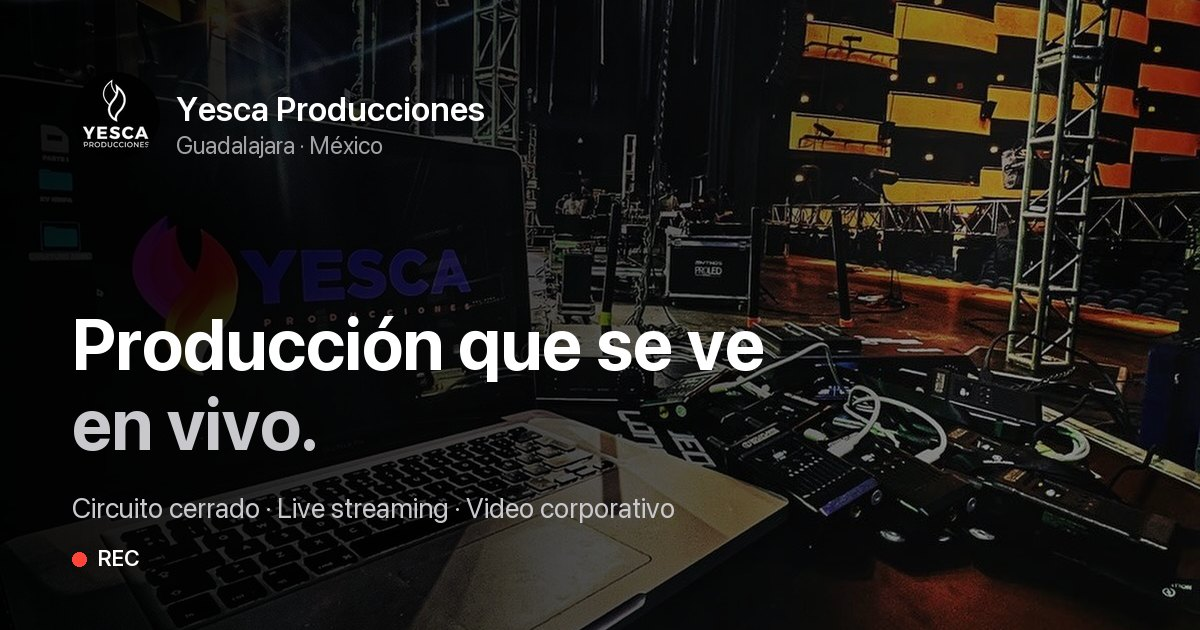
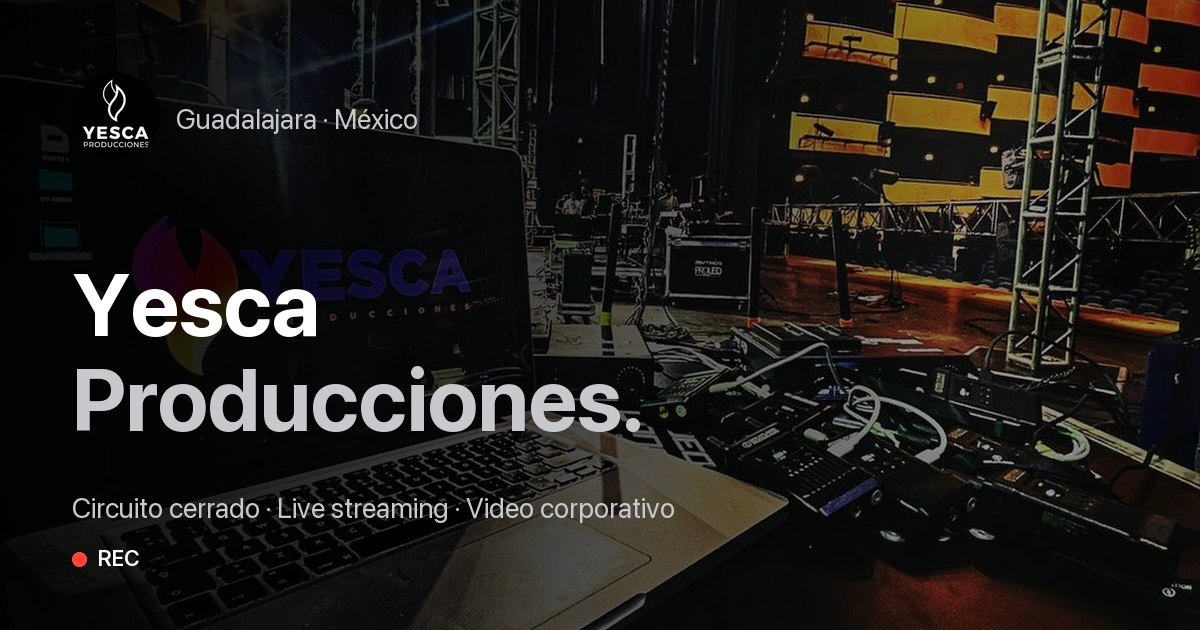
Titular: Yesca Producciones.

Changed region(s): [[0.0617, 0.4222, 0.6475, 0.7238], [0.1233, 0.1508, 0.4008, 0.2413]]

diff --git a/404.html b/404.html
@@ -9,13 +9,13 @@
   <meta property="og:type" content="website">
   <meta property="og:site_name" content="Yesca Producciones">
   <meta property="og:locale" content="es_MX">
-  <meta property="og:title" content="Yesca Producciones · Producción que se ve en vivo">
+  <meta property="og:title" content="Yesca Producciones · Circuito cerrado, live streaming y video">
   <meta property="og:description" content="Circuito cerrado de televisión, live streaming, video corporativo, publicidad, entrevistas y drone. Guadalajara, Jalisco.">
   <meta property="og:url" content="https://www.yescaproducciones.com/">
   <meta property="og:image" content="https://www.yescaproducciones.com/static/img/og.jpg">
   <meta property="og:image:width" content="1200">
   <meta property="og:image:height" content="630">
-  <meta property="og:image:alt" content="Yesca Producciones: producción que se ve en vivo">
+  <meta property="og:image:alt" content="Yesca Producciones: circuito cerrado, live streaming y video">
   <meta name="twitter:card" content="summary_large_image">
   <meta name="theme-color" content="#000000">
   <link rel="apple-touch-icon" href="/static/img/apple-touch-icon.png">
@@ -51,7 +51,7 @@
 
   <!-- Portada -->
   <section class="hero oscuro">
-    <h1 class="revelar">Producción que se ve <span class="degradado">en vivo.</span></h1>
+    <h1 class="revelar">Yesca <span class="degradado">Producciones.</span></h1>
     <p class="hero-sub revelar">Circuito cerrado, live streaming y video para escenarios, marcas y eventos.</p>
     <div class="ctas revelar">
       <a class="pastilla-azul" href="https://wa.me/523310732622?text=Hola%20Yesca%2C%20quiero%20cotizar%20un%20proyecto." target="_blank" rel="noopener">Cotiza por WhatsApp</a>

diff --git a/index.html b/index.html
@@ -9,13 +9,13 @@
   <meta property="og:type" content="website">
   <meta property="og:site_name" content="Yesca Producciones">
   <meta property="og:locale" content="es_MX">
-  <meta property="og:title" content="Yesca Producciones · Producción que se ve en vivo">
+  <meta property="og:title" content="Yesca Producciones · Circuito cerrado, live streaming y video">
   <meta property="og:description" content="Circuito cerrado de televisión, live streaming, video corporativo, publicidad, entrevistas y drone. Guadalajara, Jalisco.">
   <meta property="og:url" content="https://www.yescaproducciones.com/">
   <meta property="og:image" content="https://www.yescaproducciones.com/static/img/og.jpg">
   <meta property="og:image:width" content="1200">
   <meta property="og:image:height" content="630">
-  <meta property="og:image:alt" content="Yesca Producciones: producción que se ve en vivo">
+  <meta property="og:image:alt" content="Yesca Producciones: circuito cerrado, live streaming y video">
   <meta name="twitter:card" content="summary_large_image">
   <meta name="theme-color" content="#000000">
   <link rel="apple-touch-icon" href="/static/img/apple-touch-icon.png">
@@ -51,7 +51,7 @@
 
   <!-- Portada -->
   <section class="hero oscuro">
-    <h1 class="revelar">Producción que se ve <span class="degradado">en vivo.</span></h1>
+    <h1 class="revelar">Yesca <span class="degradado">Producciones.</span></h1>
     <p class="hero-sub revelar">Circuito cerrado, live streaming y video para escenarios, marcas y eventos.</p>
     <div class="ctas revelar">
       <a class="pastilla-azul" href="https://wa.me/523310732622?text=Hola%20Yesca%2C%20quiero%20cotizar%20un%20proyecto." target="_blank" rel="noopener">Cotiza por WhatsApp</a>

diff --git a/privacidad.html b/privacidad.html
@@ -14,7 +14,7 @@
   <meta property="og:image" content="https://www.yescaproducciones.com/static/img/og.jpg">
   <meta property="og:image:width" content="1200">
   <meta property="og:image:height" content="630">
-  <meta property="og:image:alt" content="Yesca Producciones: producción que se ve en vivo">
+  <meta property="og:image:alt" content="Yesca Producciones: circuito cerrado, live streaming y video">
   <meta name="twitter:card" content="summary_large_image">
   <meta name="theme-color" content="#000000">
   <link rel="apple-touch-icon" href="/static/img/apple-touch-icon.png">

diff --git a/terminos.html b/terminos.html
@@ -14,7 +14,7 @@
   <meta property="og:image" content="https://www.yescaproducciones.com/static/img/og.jpg">
   <meta property="og:image:width" content="1200">
   <meta property="og:image:height" content="630">
-  <meta property="og:image:alt" content="Yesca Producciones: producción que se ve en vivo">
+  <meta property="og:image:alt" content="Yesca Producciones: circuito cerrado, live streaming y video">
   <meta name="twitter:card" content="summary_large_image">
   <meta name="theme-color" content="#000000">
   <link rel="apple-touch-icon" href="/static/img/apple-touch-icon.png">
